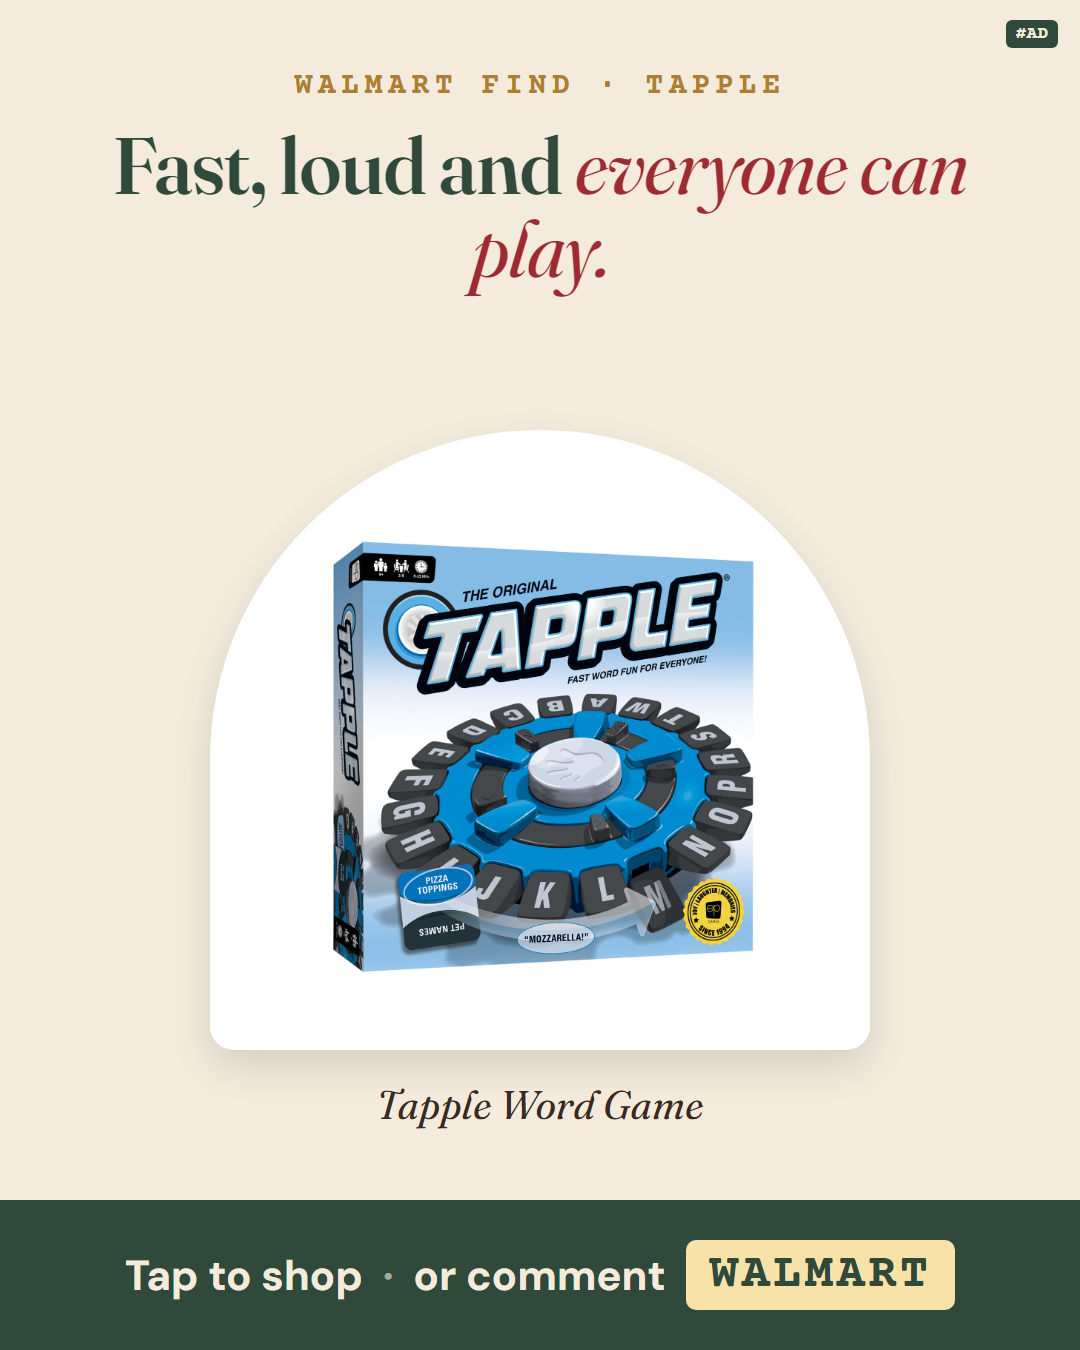
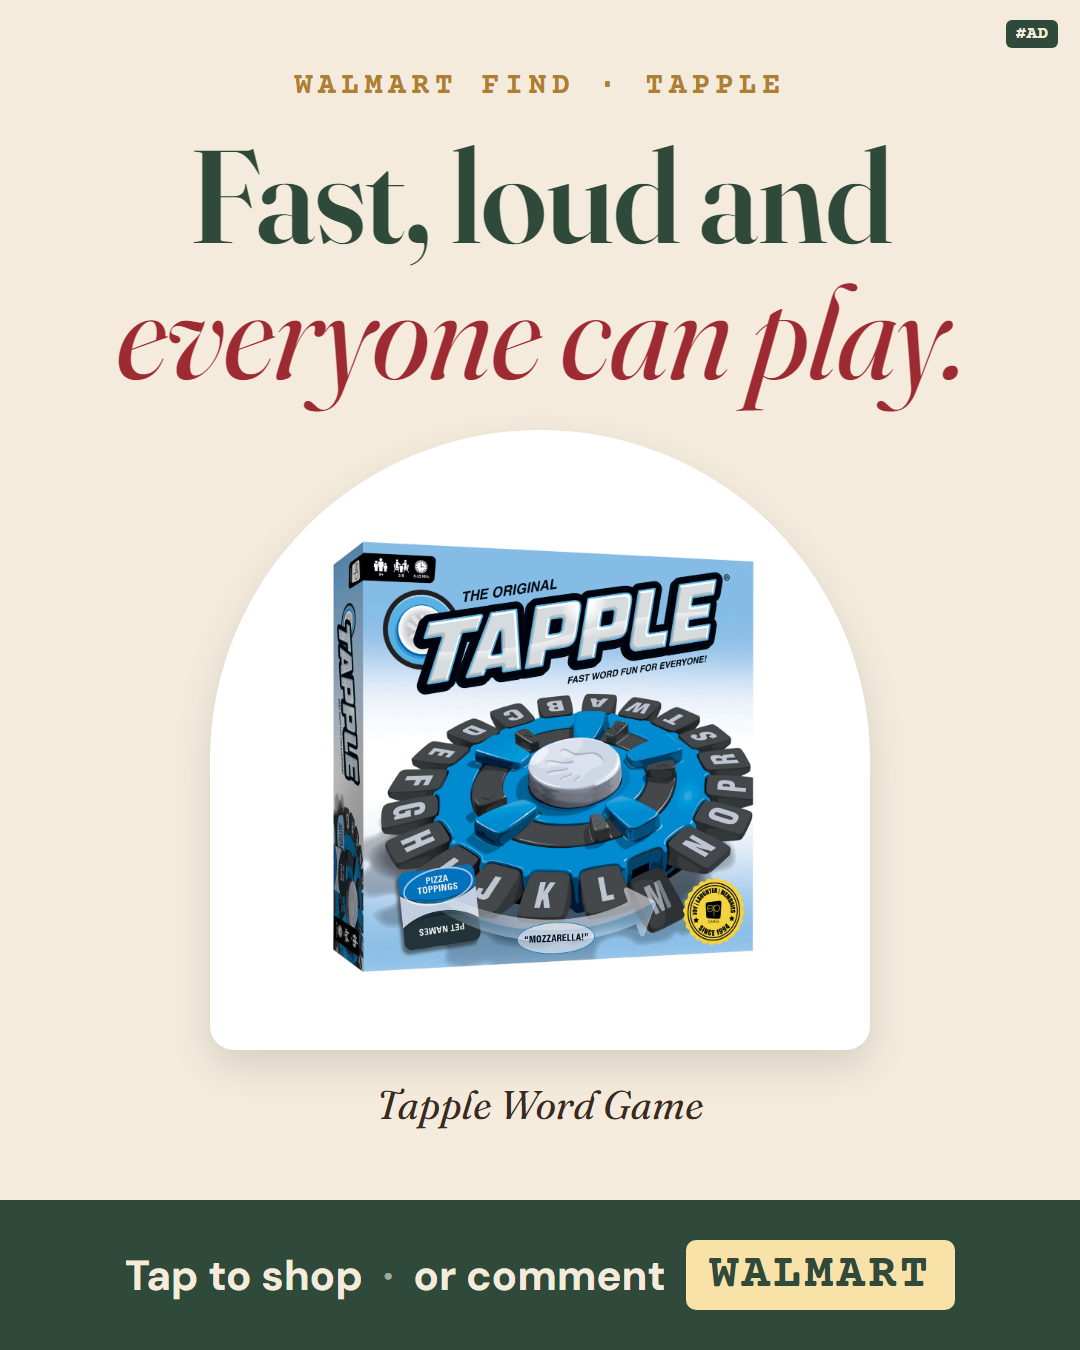
Walmart arch posts: auto-fit titles fill the space above the arch

Changed region(s): [[0.0917, 0.0933, 0.8861, 0.3111], [0.7028, 0.2178, 0.8861, 0.3111], [0.6722, 0.28, 0.7028, 0.3111]]

diff --git a/specs/make_walmart_arch.py b/specs/make_walmart_arch.py
@@ -13,7 +13,7 @@ L = lambda n: (ROOT / "src" / "wm" / f"{n}.jpg").as_uri()
 BASE = """*{box-sizing:border-box}html,body{margin:0;overflow:hidden}body{position:relative;font-family:'DM Sans',sans-serif;color:#2F4A3A}"""
 ARCH = BASE + """html,body{width:1080px;height:1350px}body{background:#F4EBDD}
 .eb{position:absolute;left:0;right:0;top:70px;text-align:center;font:700 30px 'Courier Prime',monospace;letter-spacing:.18em;color:#B07F2E}
-.hook{position:absolute;left:70px;right:70px;top:124px;text-align:center;font:600 80px/1.04 Fraunces,serif;letter-spacing:-.015em}.hook em{font-style:italic;font-weight:400;color:#9E2B32}
+.hook{position:absolute;left:60px;right:60px;top:116px;height:296px;display:flex;align-items:center;justify-content:center;text-align:center;font:600 80px/1.03 Fraunces,serif;letter-spacing:-.015em}.hook em{font-style:italic;font-weight:400;color:#9E2B32}
 .frame{position:absolute;left:210px;right:210px;top:430px;height:620px;border-radius:330px 330px 24px 24px;overflow:hidden;background:#fff;box-shadow:0 16px 36px rgba(47,74,58,.16)}
 .frame img{width:100%;height:100%;object-fit:contain;padding:70px 46px 26px}
 .name{position:absolute;left:60px;right:60px;top:1080px;text-align:center;font:italic 400 40px Fraunces,serif;color:#3A2A20}
@@ -57,11 +57,17 @@ C = {
 }
 
 
+# Auto-fit: grow each .fit title until it fills its zone (owner Nov 25: "if there's extra space, the words can just be bigger")
+FIT = ("<script>document.fonts.ready.then(()=>{document.querySelectorAll('.fit').forEach(e=>{const H=+e.dataset.h,M=+e.dataset.max;"
+       "let s=60;e.style.fontSize=s+'px';while(s<M){e.style.fontSize=(s+2)+'px';"
+       "if(e.offsetHeight>H||e.scrollWidth>e.parentElement.clientWidth){e.style.fontSize=s+'px';break}s+=2}})})</script>")
+
+
 def shot(name, css, body, w, h):
     if ONLY and name not in ONLY:
         return name
     f = ROOT / f"_{name}.html"
-    f.write_text(f'<!doctype html><html><head><meta charset="utf-8">{FONTS}<style>{css}</style></head><body>{body}</body></html>', encoding="utf-8")
+    f.write_text(f'<!doctype html><html><head><meta charset="utf-8">{FONTS}<style>{css}</style></head><body>{body}{FIT}</body></html>', encoding="utf-8")
     png = OUT / f"{name}.png"
     subprocess.run([EDGE, "--headless", "--disable-gpu", "--hide-scrollbars", "--force-device-scale-factor=1", f"--window-size={w},{h}",
                     "--virtual-time-budget=6000", f"--screenshot={png}", f.as_uri()], check=True, capture_output=True)
@@ -73,14 +79,14 @@ for key, (ph, eb, t, s, ph2, items) in C.items():
     shot(f"wm-arch-{key}-{n}", PHOTO, f'<div class="ph" style="background-image:url({L(ph)})"></div><div class="ad">#AD</div><div class="card"><div class="ceb">{eb}</div><div class="t">{t}</div><div class="s">{s}</div></div><div class="pill">Swipe for my picks &#8594;</div>', 1080, 1350)
     for img, brand, hook, prod in items:
         n += 1
-        shot(f"wm-arch-{key}-{n}", ARCH, f'<div class="ad">#AD</div><div class="eb">WALMART FIND &#183; {brand}</div><div class="hook">{hook}</div><div class="frame"><img src="{P(img)}"{FILLCSS if img in FILL else ""}></div><div class="name">{prod}</div><div class="bar">Tap to shop <span style="opacity:.6">&#183;</span> or comment <b>WALMART</b></div>', 1080, 1350)
+        shot(f"wm-arch-{key}-{n}", ARCH, f'<div class="ad">#AD</div><div class="eb">WALMART FIND &#183; {brand}</div><div class="hook"><div class="fit" data-h="296" data-max="132">{hook}</div></div><div class="frame"><img src="{P(img)}"{FILLCSS if img in FILL else ""}></div><div class="name">{prod}</div><div class="bar">Tap to shop <span style="opacity:.6">&#183;</span> or comment <b>WALMART</b></div>', 1080, 1350)
     n += 1
     shot(f"wm-arch-{key}-{n}", PHOTO, f'<div class="ph" style="background-image:url({L(ph2)})"></div><div class="ad">#AD</div><div class="card" style="top:300px"><div class="ceb">THE WHOLE LIST</div><div class="t" style="font-size:84px">Shop it all at my <em>Walmart storefront</em></div></div><div class="pill">Comment WALMART &#10022;</div><div class="under">or tap the link in my bio</div>', 1080, 1350)
     print(key, n)
 
 PIN = BASE + """html,body{width:1000px;height:1500px}body{background:#F4EBDD}
 .eb{position:absolute;left:0;right:0;top:70px;text-align:center;font:700 30px 'Courier Prime',monospace;letter-spacing:.2em;color:#9E2B32}
-.t{position:absolute;left:50px;right:50px;top:122px;text-align:center;font:600 92px/1.02 Fraunces,serif;letter-spacing:-.02em}.t em{font-style:italic;font-weight:400;color:#9E2B32}
+.t{position:absolute;left:44px;right:44px;top:112px;height:306px;display:flex;align-items:center;justify-content:center;text-align:center;font:600 92px/1.02 Fraunces,serif;letter-spacing:-.02em}.t em{font-style:italic;font-weight:400;color:#9E2B32}
 .g{position:absolute;left:60px;right:60px;top:440px;display:grid;grid-template-columns:1fr 1fr;gap:28px}
 .a{height:430px;border-radius:220px 220px 20px 20px;background:#fff;overflow:hidden;box-shadow:0 12px 28px rgba(47,74,58,.14)}
 .a img{width:100%;height:100%;object-fit:contain;padding:56px 26px 18px}
@@ -91,5 +97,5 @@ PINS = {"her": ("COZY GIFTS FOR HER", "Gifts she'll <em>actually</em> use", ["sl
         "games": ("FAMILY GAME NIGHT", "Games they'll <em>actually</em> play", ["uno", "phase10", "mdeal", "tapple"])}
 for key, (eb, t, imgs) in PINS.items():
     tiles = "".join(f'<div class="a"><img src="{P(i)}"{FILLCSS if i in FILL else ""}></div>' for i in imgs)
-    shot(f"wm-ppin-{key}", PIN, f'<div class="eb">{eb}</div><div class="t">{t}</div><div class="g">{tiles}</div><div class="pill">Shop my Walmart storefront &#10022;</div>', 1000, 1500)
+    shot(f"wm-ppin-{key}", PIN, f'<div class="eb">{eb}</div><div class="t"><div class="fit" data-h="306" data-max="150">{t}</div></div><div class="g">{tiles}</div><div class="pill">Shop my Walmart storefront &#10022;</div>', 1000, 1500)
 print("pins ok")
